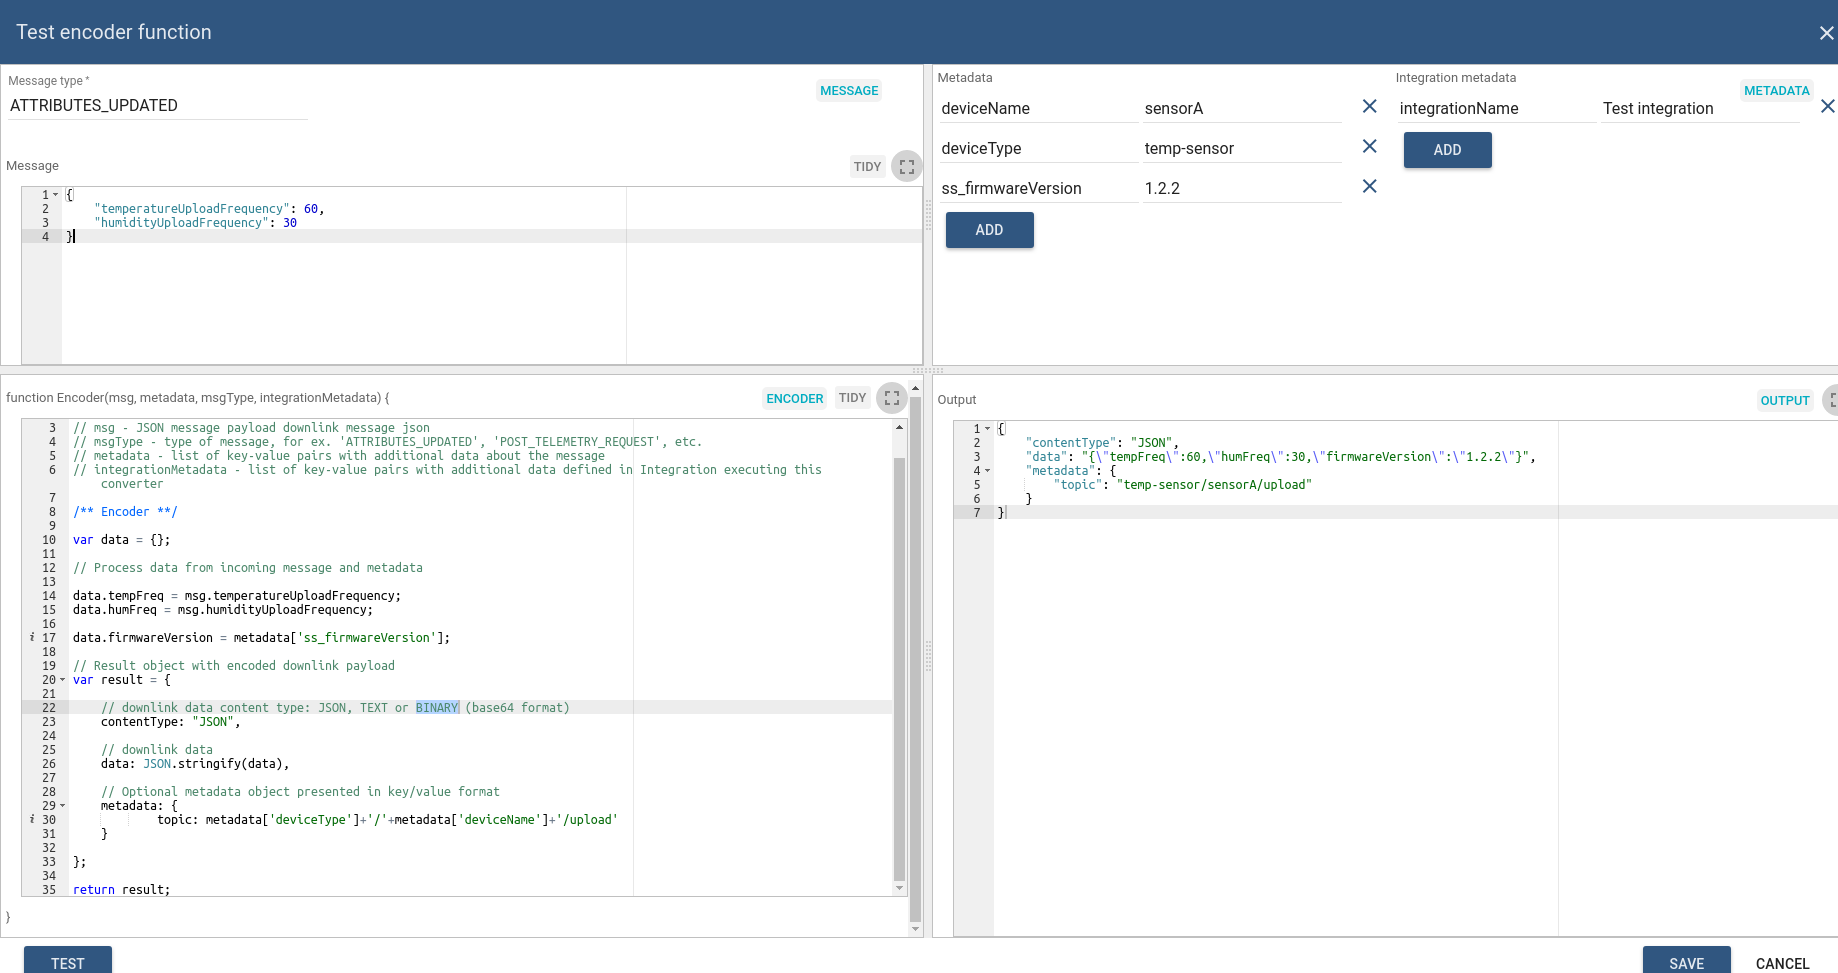
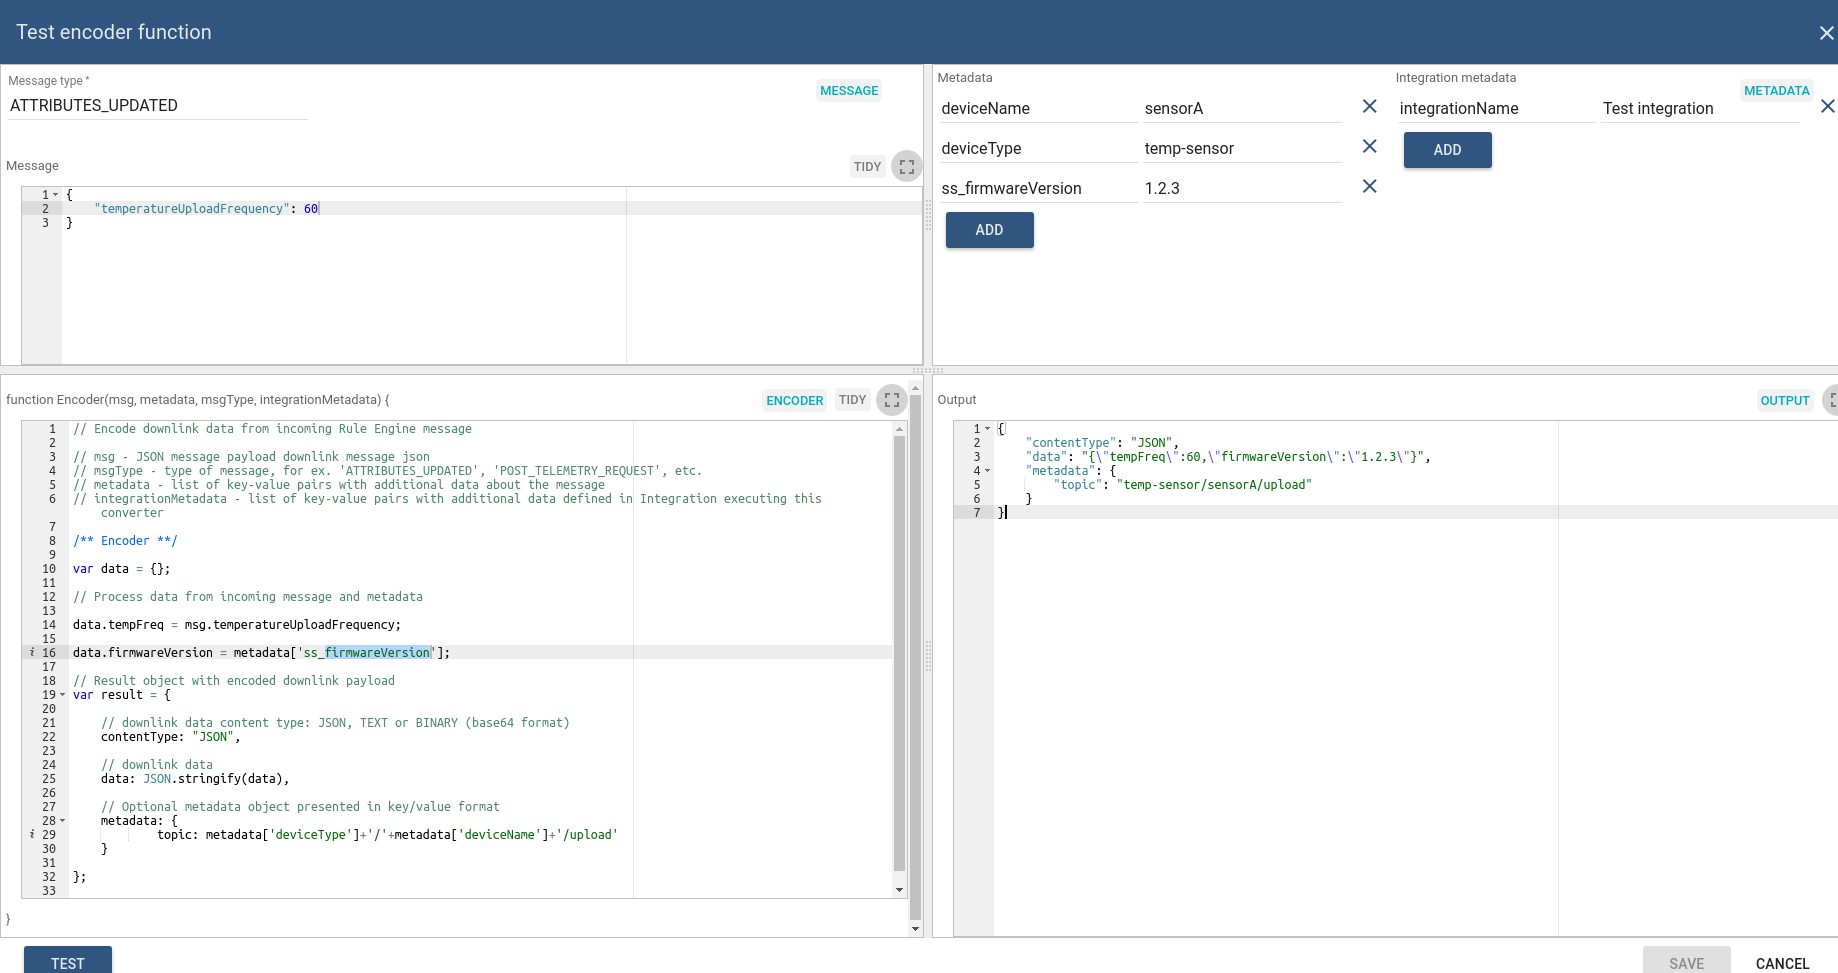
Downlink documentation

diff --git a/docs/user-guide/integrations/index.md b/docs/user-guide/integrations/index.md
@@ -200,7 +200,7 @@ Converter output should be a valid JSON document with the following structure:
 ```json
 {
     "contentType": "JSON",
-    "data": "{\"tempFreq\":60,\"humFreq\":30,\"firmwareVersion\":\"1.2.2\"}",
+    "data": "{\"tempFreq\":60,\"firmwareVersion\":\"1.2.3\"}",
     "metadata": {
         "topic": "temp-sensor/sensorA/upload"
     }
@@ -227,7 +227,9 @@ The full source code of javascript function used in converter is available [**he
 
 In order to invoke the downlink processing by the integration, tenant administrator should configure the rule chain similar to the one below:
 
+![image](/images/user-guide/integrations/downlink-rule-chain-example.png)
 
+The full rule chain configuration is available [**here**](/docs/user-guide/resources/downlink_example_rule_chain.json).
 
 ##### Synchronous vs Asynchronous Downlinks 
 
